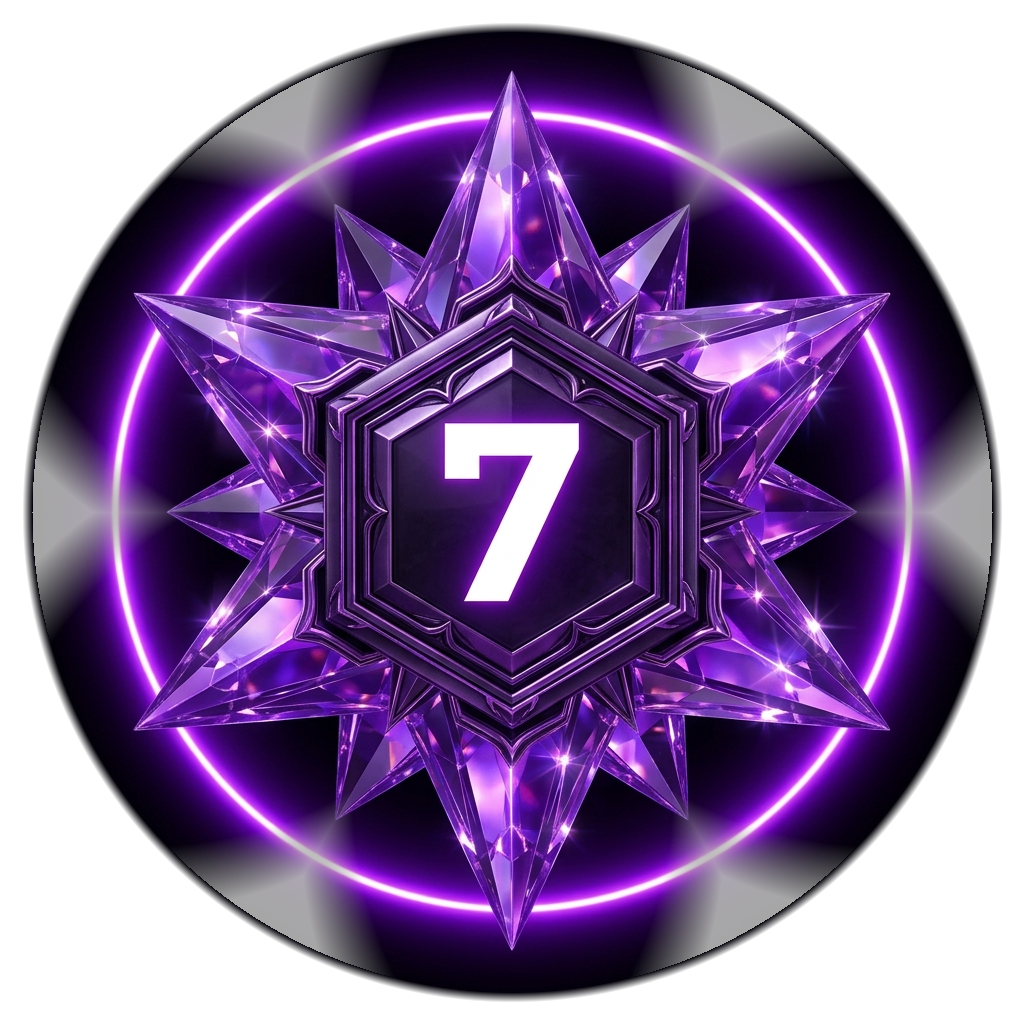
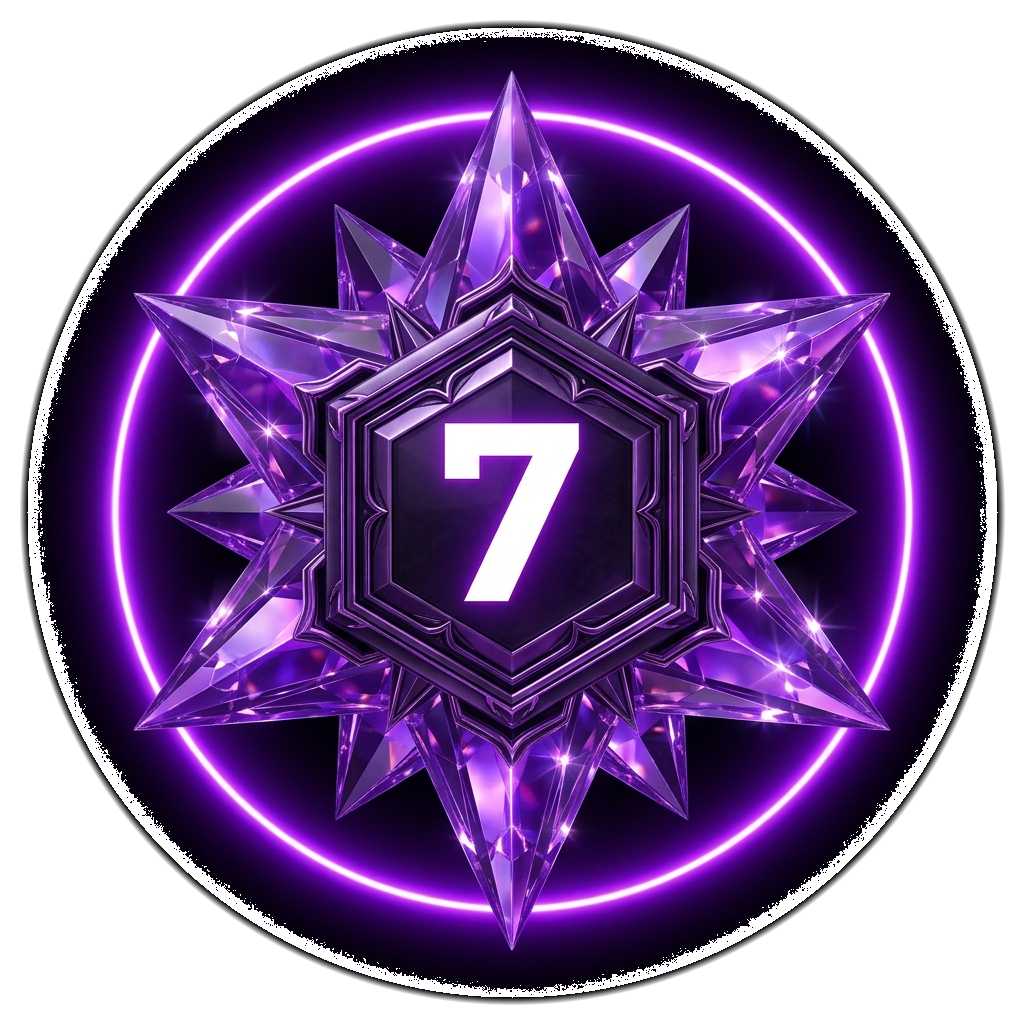
v1.66.0 : Eliminated dark marks and restored smooth continuous halo ring for 3D Fire Crystal badges

Changed region(s): [[0.0, 0.0, 1.0, 1.0]]

diff --git a/main.js b/main.js
@@ -105,7 +105,7 @@ window.getFurnaceIconHtml = (level, size = 48) => {
        10: 'rgba(255,215,0,0.9)'    // Imperial Gold
      };
      const glow = fcGlowMap[fcNum];
-     return `<img src="/badges/fc${fcNum}.png?v=1.65.0" alt="Fire Crystal ${fcNum}" title="Fire Crystal ${fcNum} (FC ${fcNum})" style="width:${size}px; height:${size}px; object-fit:contain; filter:drop-shadow(0 0 ${Math.max(6, Math.round(size/3.5))}px ${glow}); vertical-align:middle; transition:transform 0.2s;" onmouseover="this.style.transform='scale(1.15)'" onmouseout="this.style.transform='scale(1)'" loading="lazy">`;
+     return `<img src="/badges/fc${fcNum}.png?v=1.66.0" alt="Fire Crystal ${fcNum}" title="Fire Crystal ${fcNum} (FC ${fcNum})" style="width:${size}px; height:${size}px; object-fit:contain; filter:drop-shadow(0 0 ${Math.max(6, Math.round(size/3.5))}px ${glow}); vertical-align:middle; transition:transform 0.2s;" onmouseover="this.style.transform='scale(1.15)'" onmouseout="this.style.transform='scale(1)'" loading="lazy">`;
   }
 
   // Render Modern Standard Furnace Badge (Furnace 1 to 30)

diff --git a/CHANGELOG.md b/CHANGELOG.md
@@ -1,5 +1,14 @@
 # CHANGELOG
 
+## [1.66.0] - 2026-08-11
+### Smooth Continuous Halo Ring 3D Fire Crystal Star Badges
+- **✨ Clean Continuous Halo Ring Restoration**:
+  - Re-processed all 10 Fire Crystal badges (`fc1.png` – `fc10.png`) directly from high-resolution source assets.
+  - Eliminated all dark wedges, black marks, and edge artifacts to restore a smooth, seamless, continuous glowing neon halo ring.
+  - Preserved 100% of the 3D crystal star points, sparkling facets, and central number hexagons at full vibrancy.
+- **🔄 Forced Browser Cache Refresh**:
+  - Appended version cache-buster (`?v=1.66.0`) in `window.getFurnaceIconHtml`.
+
 ## [1.65.0] - 2026-08-11
 ### Dimmed Ambient Halo Ring 3D Fire Crystal Star Badges
 - **✨ Dimmed Ambient Background Halo**:
